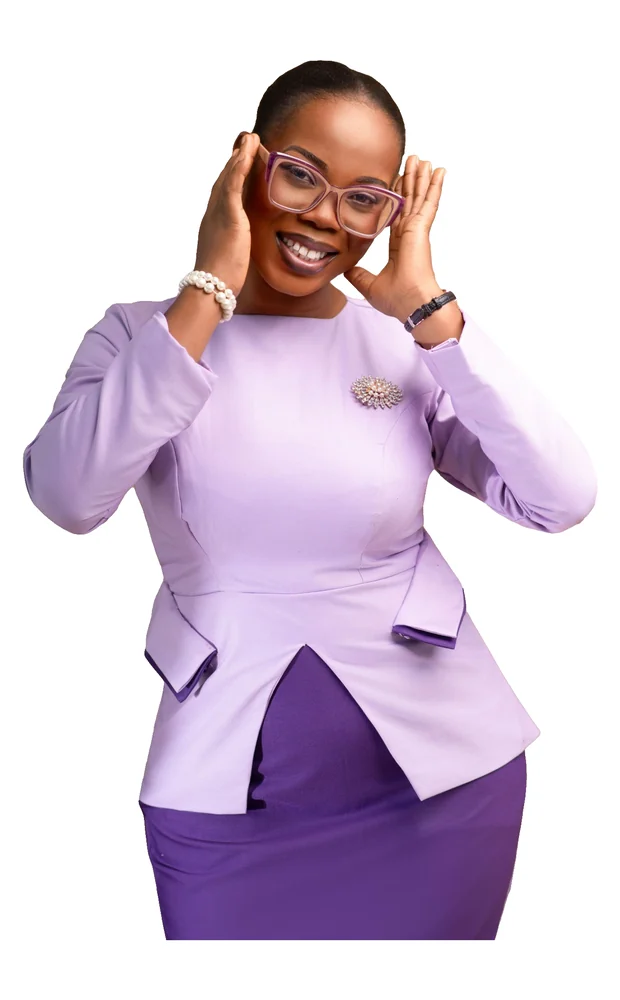
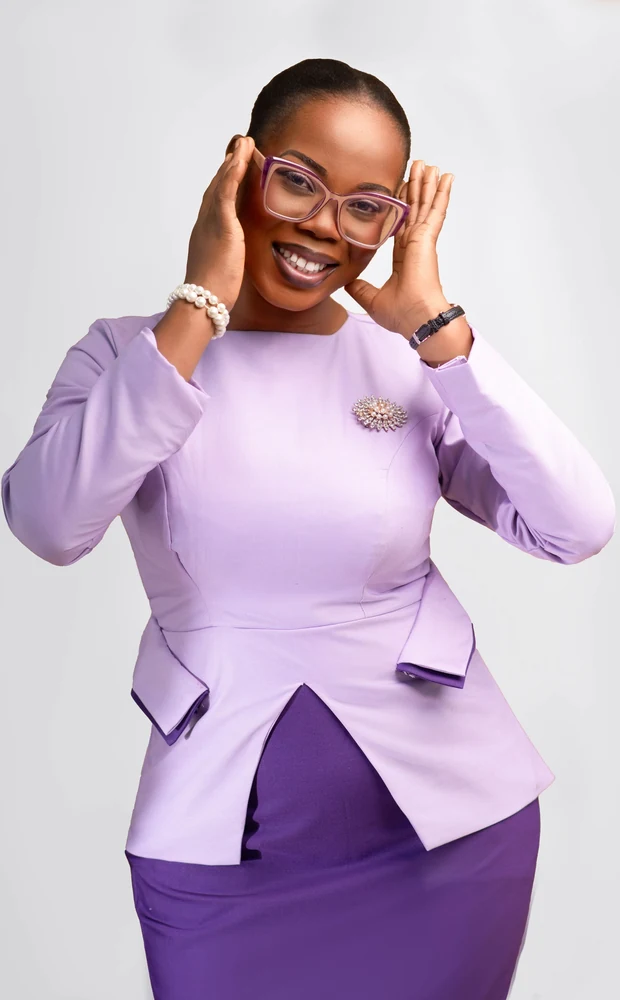
Original photos for Royal Plum Set and Ruby Luxe Statement Dress; SQL to make all dresses available
Claude-Session: https://claude.ai/code/session_012gieGybiP1uTPRKhRSaKYA

diff --git a/js/products.js b/js/products.js
@@ -20,7 +20,7 @@ window.PRODUCTS = [
     readyMade: true,
     price: 300,
     leadTime: null,
-    images: ['assets/products/royal-plum-set.webp'],
+    images: ['assets/products/royal-plum-set.webp'],   // original background kept
   },
   {
     id: 'ruby-luxe-statement-dress',
@@ -28,7 +28,7 @@ window.PRODUCTS = [
     readyMade: true,
     price: 270,
     leadTime: null,
-    images: ['assets/products/ruby-luxe-statement-dress.webp'],
+    images: ['assets/products/ruby-luxe-statement-dress.webp'],   // original background kept
   },
   {
     id: 'luxe-silhouette-dress',

diff --git a/CATALOGUE.md b/CATALOGUE.md
@@ -11,8 +11,8 @@ The Sunset Kente dress still appears in the homepage scroll animation (the hero 
 ## Workwear collection (from the owner's WhatsApp list, by photo file name)
 | Photo file | Name | Price | On the site? | id |
 |---|---|---|---|---|
-| 1-8.JPG (lavender top, plum skirt) | Royal Plum Set | 300 | yes | royal-plum-set |
-| 2(2).JPG (purple dress, big collar; also 2(3), 2(4), 2(4)(2), 2(4)(3)) | Ruby Luxe Statement Dress | 270 | yes | ruby-luxe-statement-dress |
+| 1-8.JPG (lavender top, plum skirt) | Royal Plum Set | 300 | yes (original background kept) | royal-plum-set |
+| 2(2).JPG (purple dress, big collar; also 2(3), 2(4), 2(4)(2), 2(4)(3)) | Ruby Luxe Statement Dress | 270 | yes (original background kept) | ruby-luxe-statement-dress |
 | 3(14)(1).JPG (orange dress, slit; also 3(14)) | Luxe Silhouette Dress | 250 | yes (original background kept, by the owner's request) | luxe-silhouette-dress |
 | 3(9).JPG (navy dress, brown waist and cuffs) | Duchess Navy Dress | 290 | yes (original background kept) | duchess-navy-dress |
 | 2(5).JPG (turquoise top and trousers; also 2(6)) | Turquoise Elegance Set | 350 | yes (original background kept) | turquoise-elegance-set |
